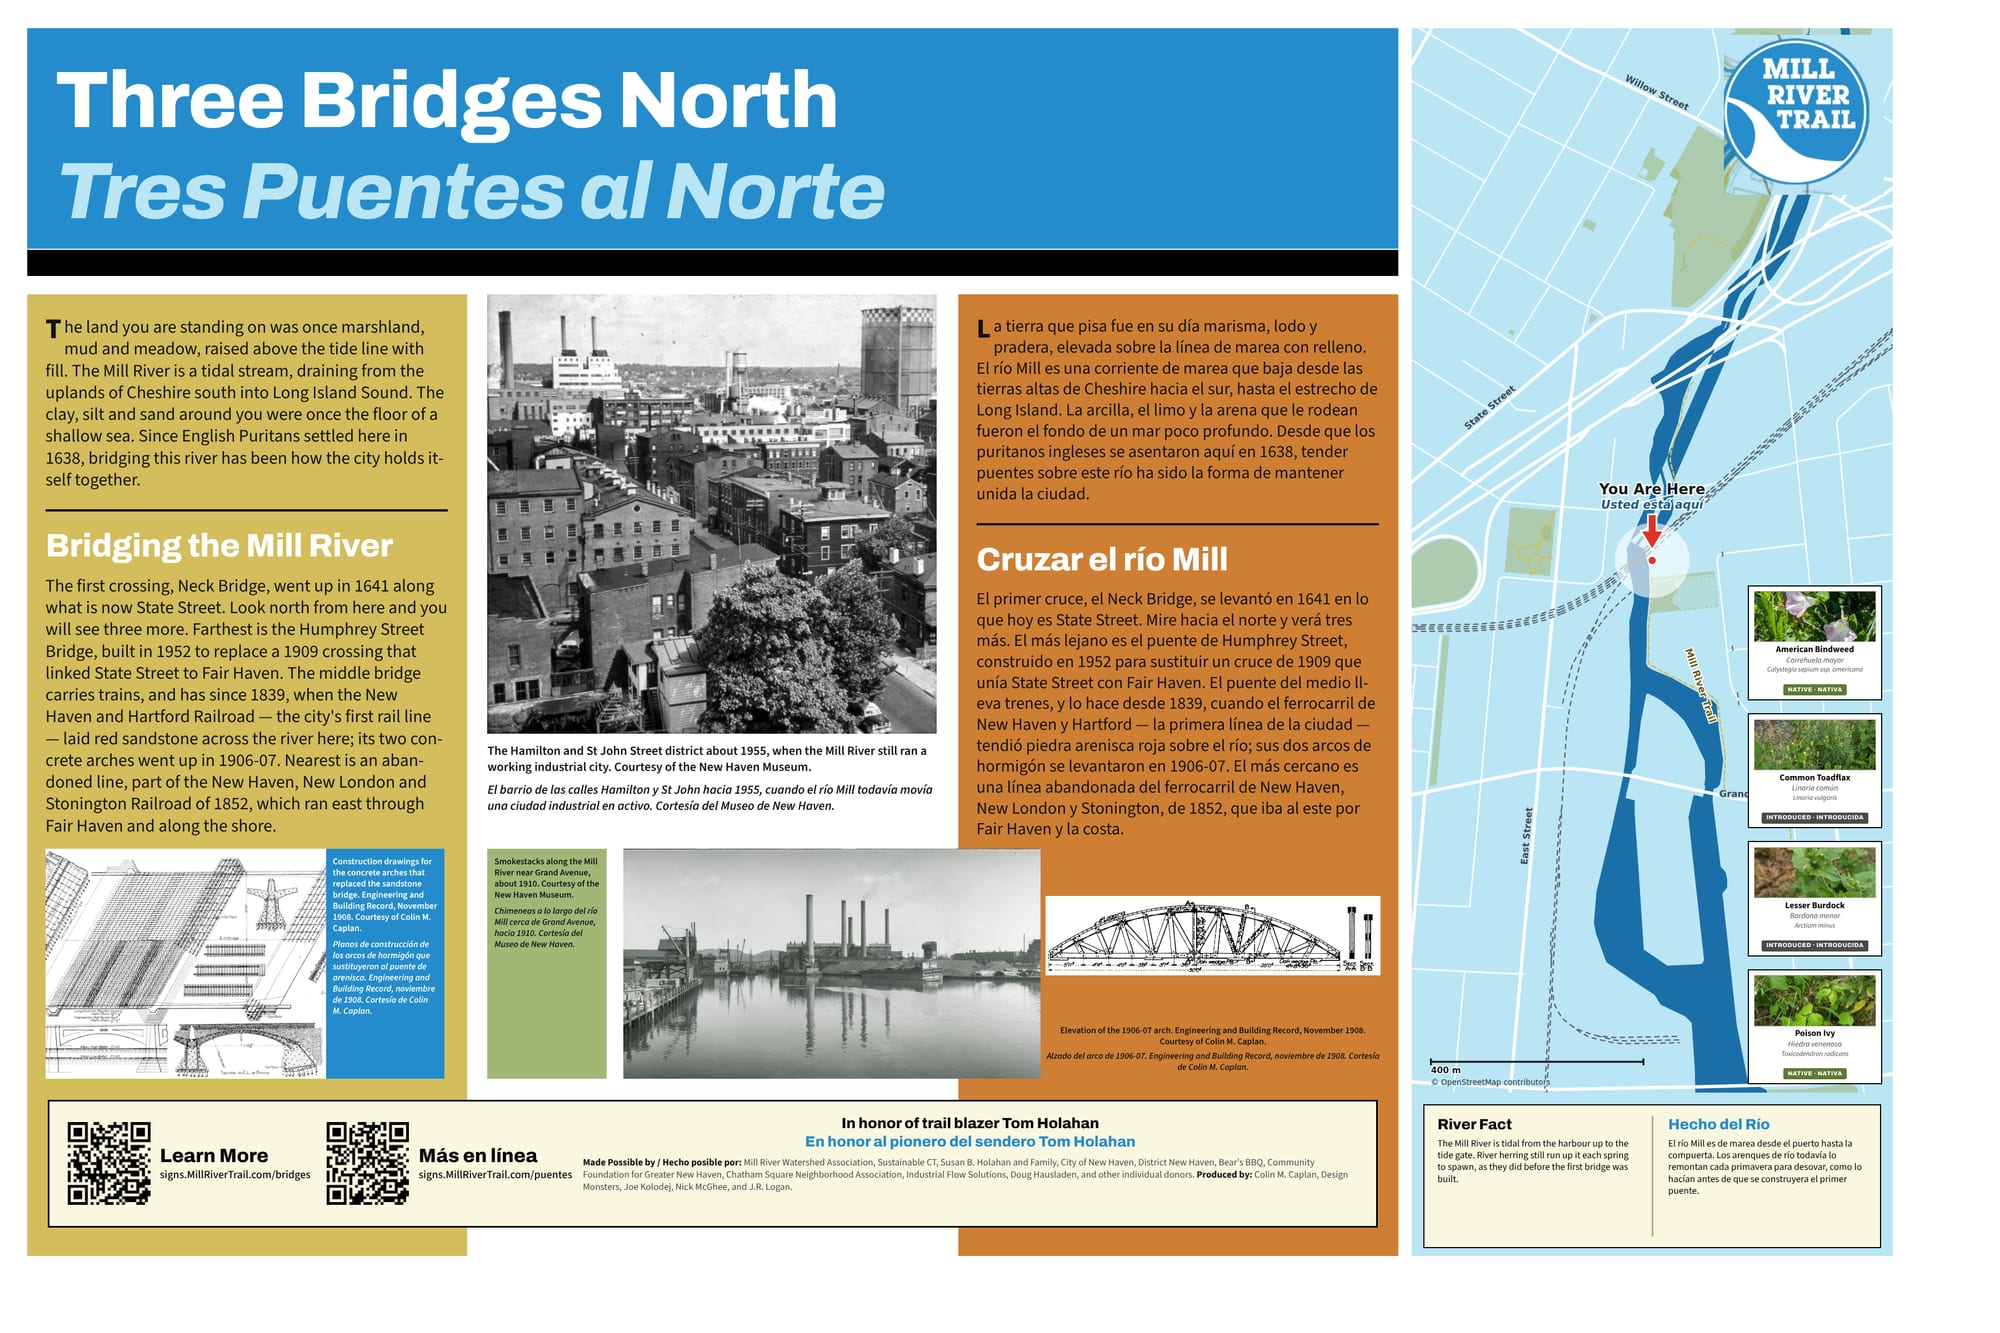
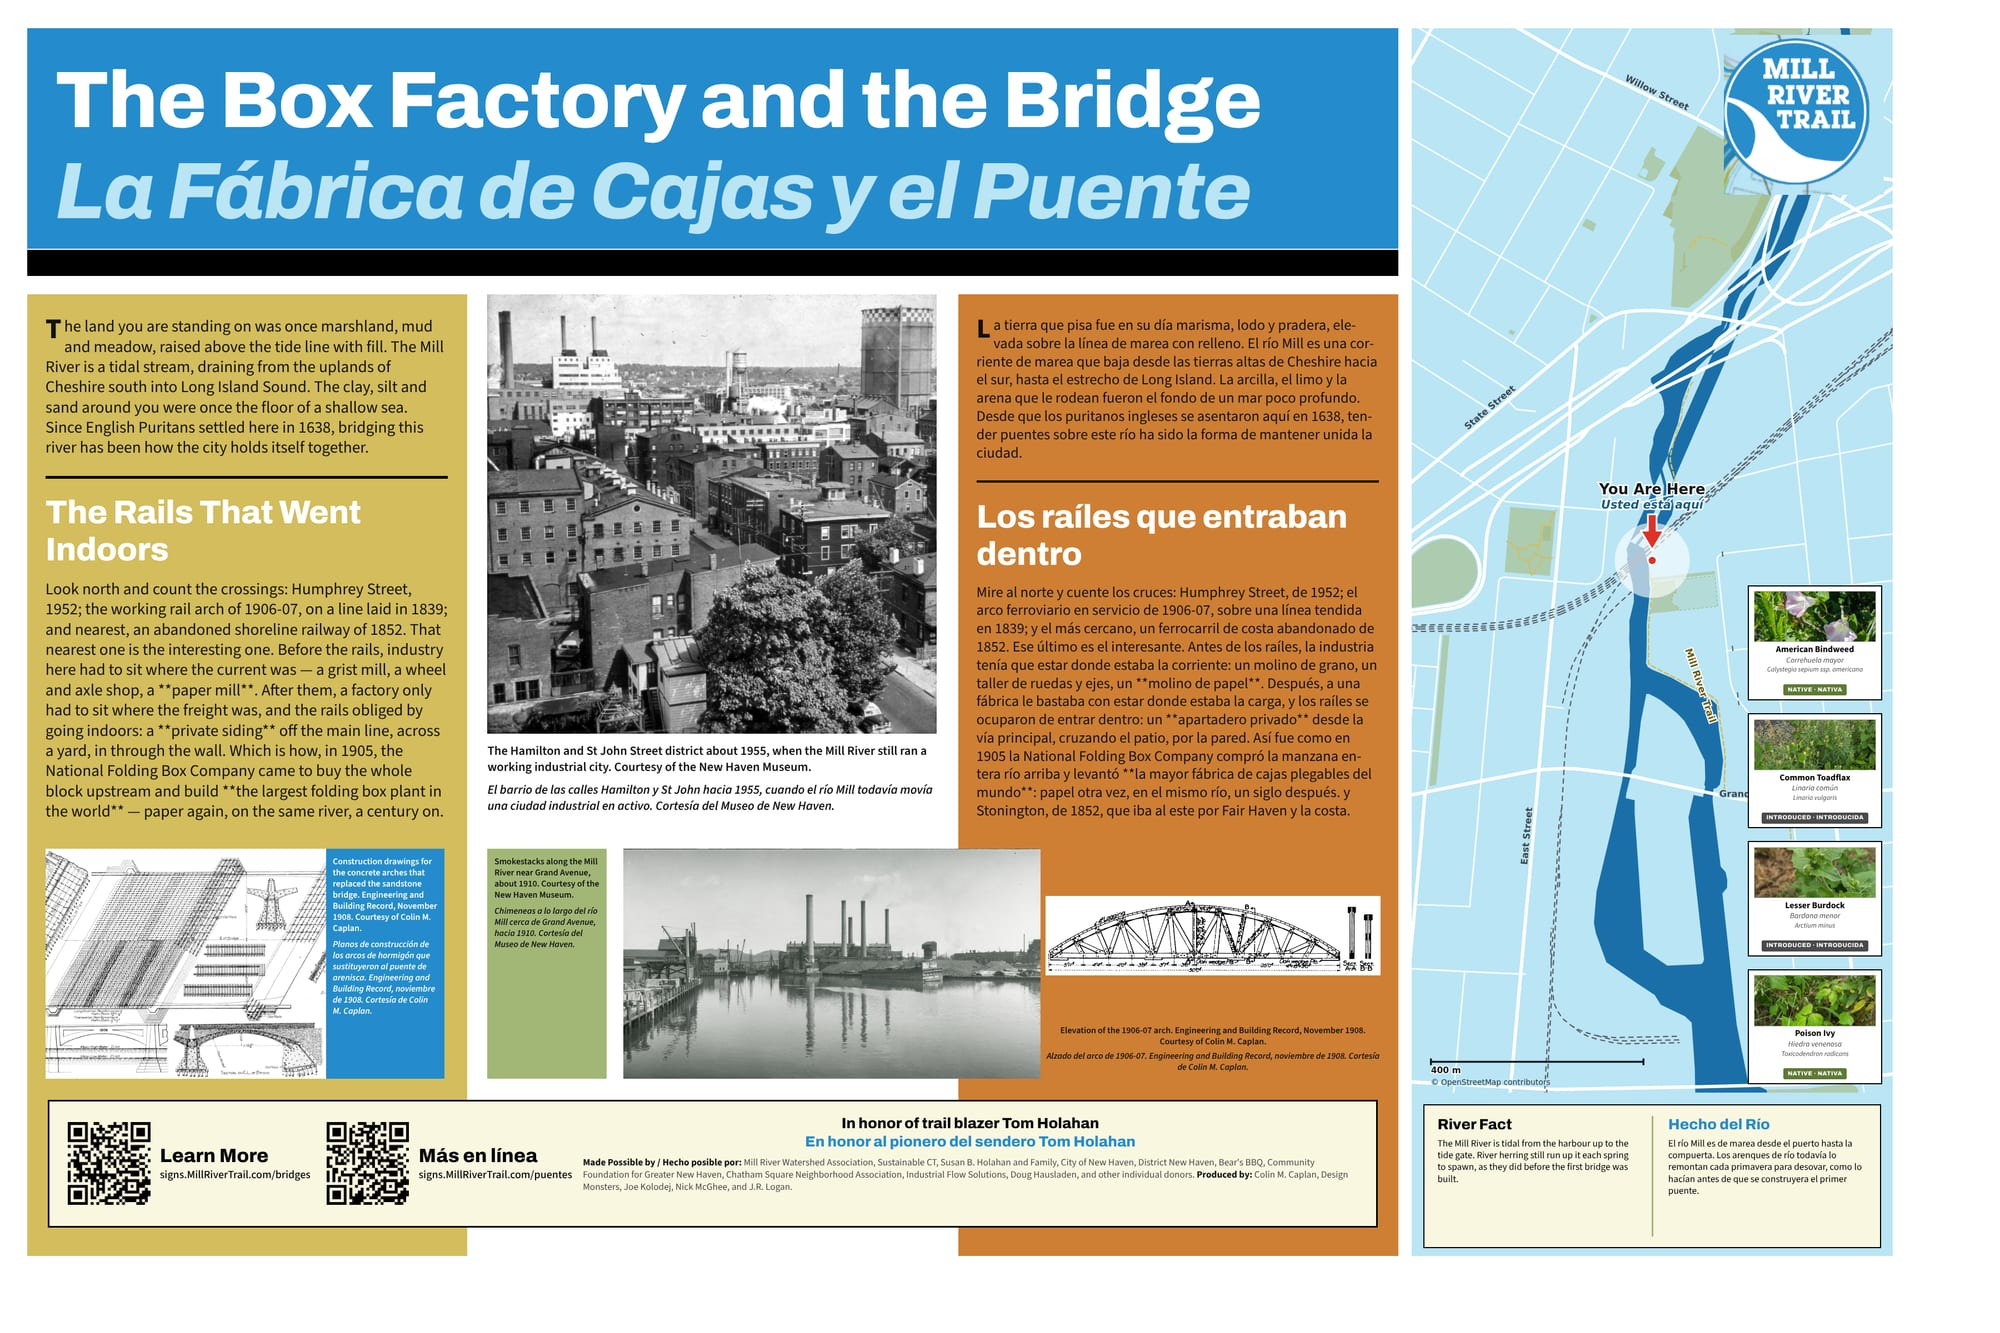
Merge the rail and box factory signs; apply the location test to the ten
Signs 3 and 15 become one: "The Box Factory and the Bridge". JR's
connection is the reason — the private rail ran straight into the cardboard
plant, and the paper mill that preceded the railway was the same trade on
the same river a century earlier. Neither sign said that. The arc now runs
water power, to the railway of 1839, to the siding that goes in through a
factory wall, to the largest folding box plant in the world, to Starter
jackets, to ACES. It ends where it started: not a bridge that took people
anywhere, a bridge that took freight to a door.

Merged into 3 rather than 15 because 3's four rail and bridge images stay on
the panel, so the merged sign is 4 of 4 and ready to proof today. The box
factory material lives on the web page, which has no image limit. Sign 15 is
kept and marked superseded, not deleted; its slugs stay live.

Dragon Point demoted: it sits on the Quinnipiac, and a sign on the Mill
River Trail should be about the Mill River. Kept as an alternate because it
is most of a sign for the Quinnipiac project already.

That opened a slot, and the same location test argues for Grapevine Point —
Criscuolo Park is the Mill's own mouth. Sign 8 returns to the ten, and now
does what the monument does not: it carries the oyster ground it stands on,
the 1886 watch house robbery, and Ingersoll's midnight race.

Ten signs, five of them artwork-complete and ready to proof.

Changed region(s): [[0.0, 0.2153, 0.217, 0.6459], [0.465, 0.2153, 0.682, 0.6459], [0.031, 0.0308, 0.651, 0.1845]]

diff --git a/docs/DECISIONS.md b/docs/DECISIONS.md
@@ -2561,3 +2561,97 @@ something rather than reading about it — the Exchange Street park was the firs
 Between them they caught a stale caption and a stale subtitle that four rounds of
 archival research did not. **Worth remembering when deciding how much more
 desk research to commission.**
+
+
+## The ten, revised: a merge, and a location test
+
+Two of JR's calls in one sitting, and together they change the shape of the series.
+
+### Signs 3 and 15 are now one sign
+
+**"The Box Factory and the Bridge"** — sign 3, retitled from *Three Bridges
+North*, absorbing sign 15.
+
+JR's connection is the reason: the private rail ran straight into the cardboard
+plant, and the paper mill that preceded the railway was the same trade on the
+same river a century earlier. Neither sign said that. Now one does, and the arc
+is complete:
+
+> water power (a grist mill, a wheel and axle shop, **a paper mill**) → the
+> railway of 1839 → the **private siding** that goes in through a factory wall →
+> the **largest folding box plant in the world**, printing Budweiser, Hershey's
+> and the Almond Joy wrapper → **Starter jackets** → ACES.
+
+It ends where it started: *"It is not a bridge that took people anywhere. It is a
+bridge that took freight to a door."*
+
+**Artwork: sign 3's existing four rail and bridge images stay on the printed
+panel**, so the merged sign is **4 of 4 and ready to proof today**. The box
+factory material lives in full on the web page, which has no image limit and can
+absorb the New Haven Museum photographs whenever they arrive. That was the whole
+argument for merging into 3 rather than into 15.
+
+`sign-15-james-street.yml` is **kept, not deleted** — marked superseded in its
+header, still an alternate, slugs still live. It is the fuller treatment standing
+at the building itself if a later phase wants it. Anyone reviving it must cut the
+overlap with sign 3 first.
+
+### Dragon Point is on the wrong river
+
+JR: *"dragons point is really mostly on the quinnipac river ... maybe does not
+make this list because of the location."*
+
+He is right, and it is the same discipline this file applied to Lanson's stone:
+**a sign on the Mill River Trail should be about the Mill River.** Sign 12 sits at
+41.3019, -72.8962 — Fair Haven, on the Quinnipiac. Its material is oysters, watch
+houses, the 1894 typhoid outbreak and the midnight race, and almost all of that
+is Quinnipiac and harbour history.
+
+**Demoted to alternate, and explicitly kept**, because JR expects a signage
+project on the Quinnipiac at some point and this is most of a sign for it
+already.
+
+### Which put Grapevine Point back in
+
+Demoting sign 12 opened a slot, and the location test that removed it is the same
+test that argues for **sign 8**: Criscuolo Park is the Mill River's **own mouth**,
+where it meets the Quinnipiac. It is as Mill River as the trail gets.
+
+Sign 8 had been demoted an hour earlier on the grounds that the 29th Connecticut
+already has black granite monoliths on that ground carrying the roster and the
+regiment's history. That worry is answered by making sign 8 do what the monument
+does not: it now also carries **the oyster ground it stands on** — the 1886 watch
+house robbery at Oyster Point, and Ingersoll's midnight race — with a pointer to
+sign 12 for the full oyster story.
+
+So sign 8 is no longer "the sign that repeats the monument." It is the sign at the
+mouth of the river: the camps, the regiment, the oyster beds, the armed watchmen
+and the bell at midnight.
+
+### The ten, as it stands
+
+| # | Sign | |
+|---|---|---|
+| 1 | Famous Stolen Submarine | 4/4 |
+| 2 | The Island and the Powerhouse | 4/4 |
+| 3 | The Box Factory and the Bridge | 4/4 |
+| 4 | The Dam That Fought Fires | 4/4 |
+| 5 | Where the City Bathed | 4/4 |
+| 6 | The Gate in the River | 1/4 |
+| 8 | Camp at Grapevine Point | 0/4 |
+| 10 | The Highway That Wasn't | 1/4 |
+| 11 | A Boat on the Rock | 0/4 |
+| 13 | King Lanson's River | 3/4 |
+
+**Five of the ten are artwork-complete and ready to proof.**
+
+Alternates: 7 Tides, 9 Plans, 12 Dragon Point, 15 James Street (superseded).
+14 First People remains the placeholder.
+
+### The principle worth keeping
+
+Three signs have now been reshaped by asking one question: **is this actually
+about this river?** It removed Lanson's stone from the Mill, it removed Dragon
+Point from the ten, and it is why Ingersoll's midnight race is captioned on sign
+12 as a Quinnipiac event. The trail is named after a river, and the discipline of
+holding to it has made every sign it touched more specific, not less interesting.
